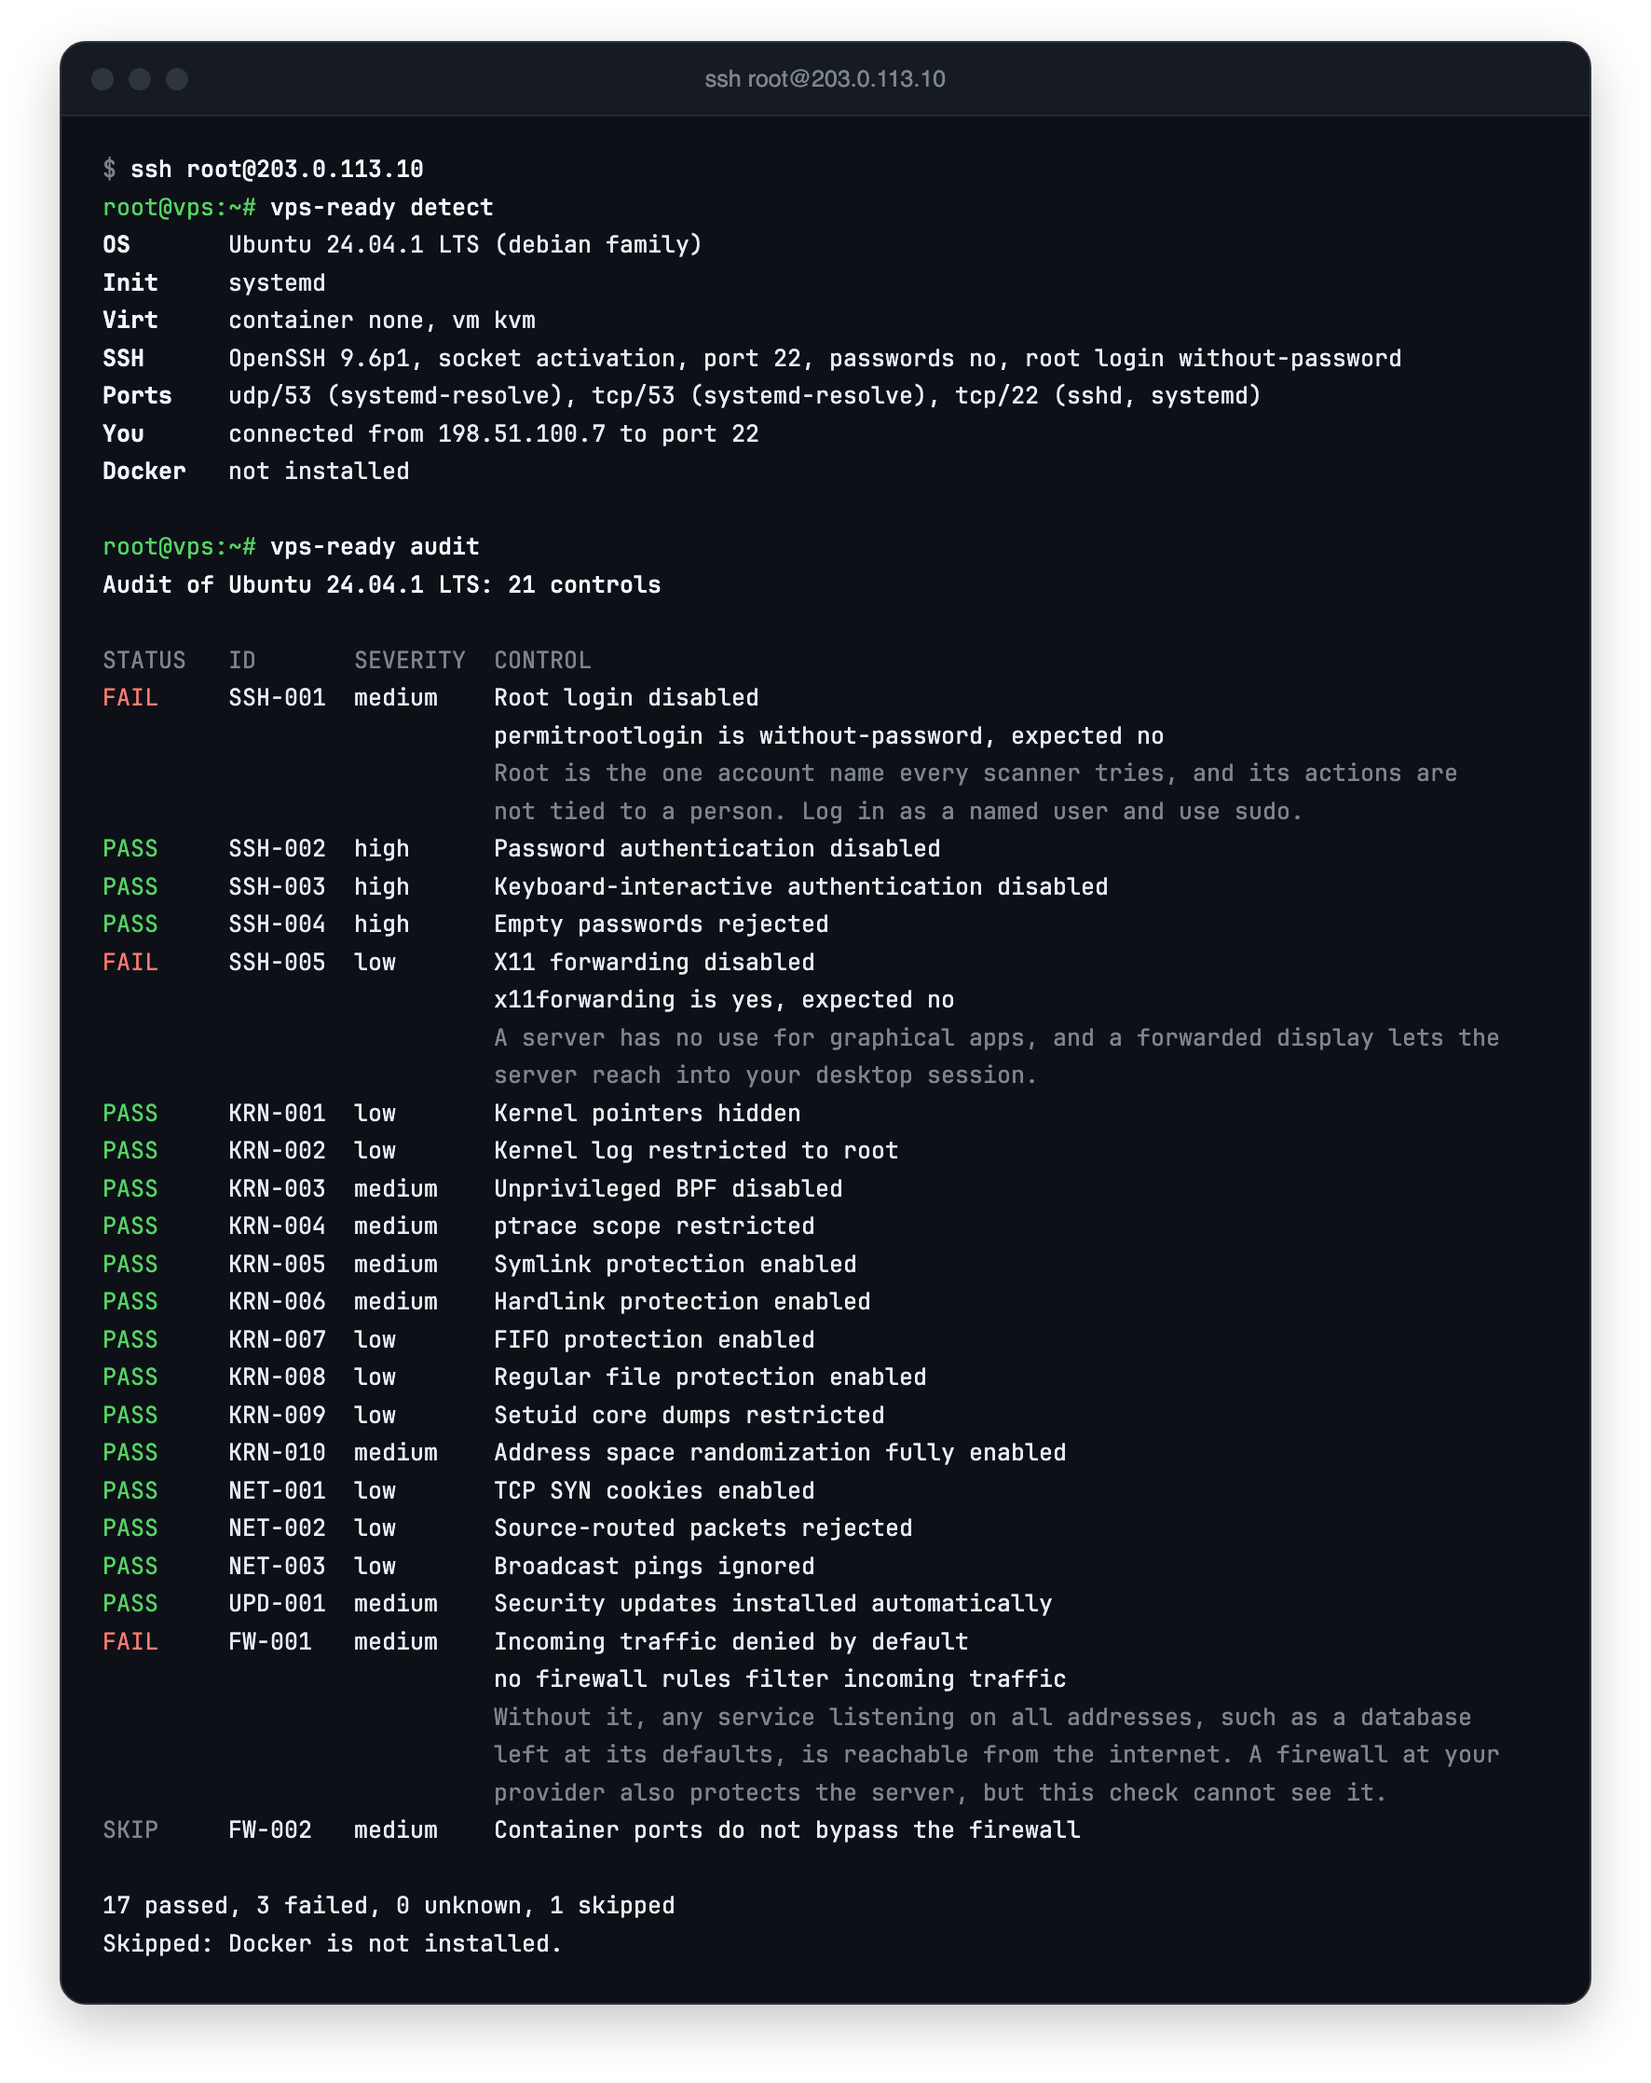
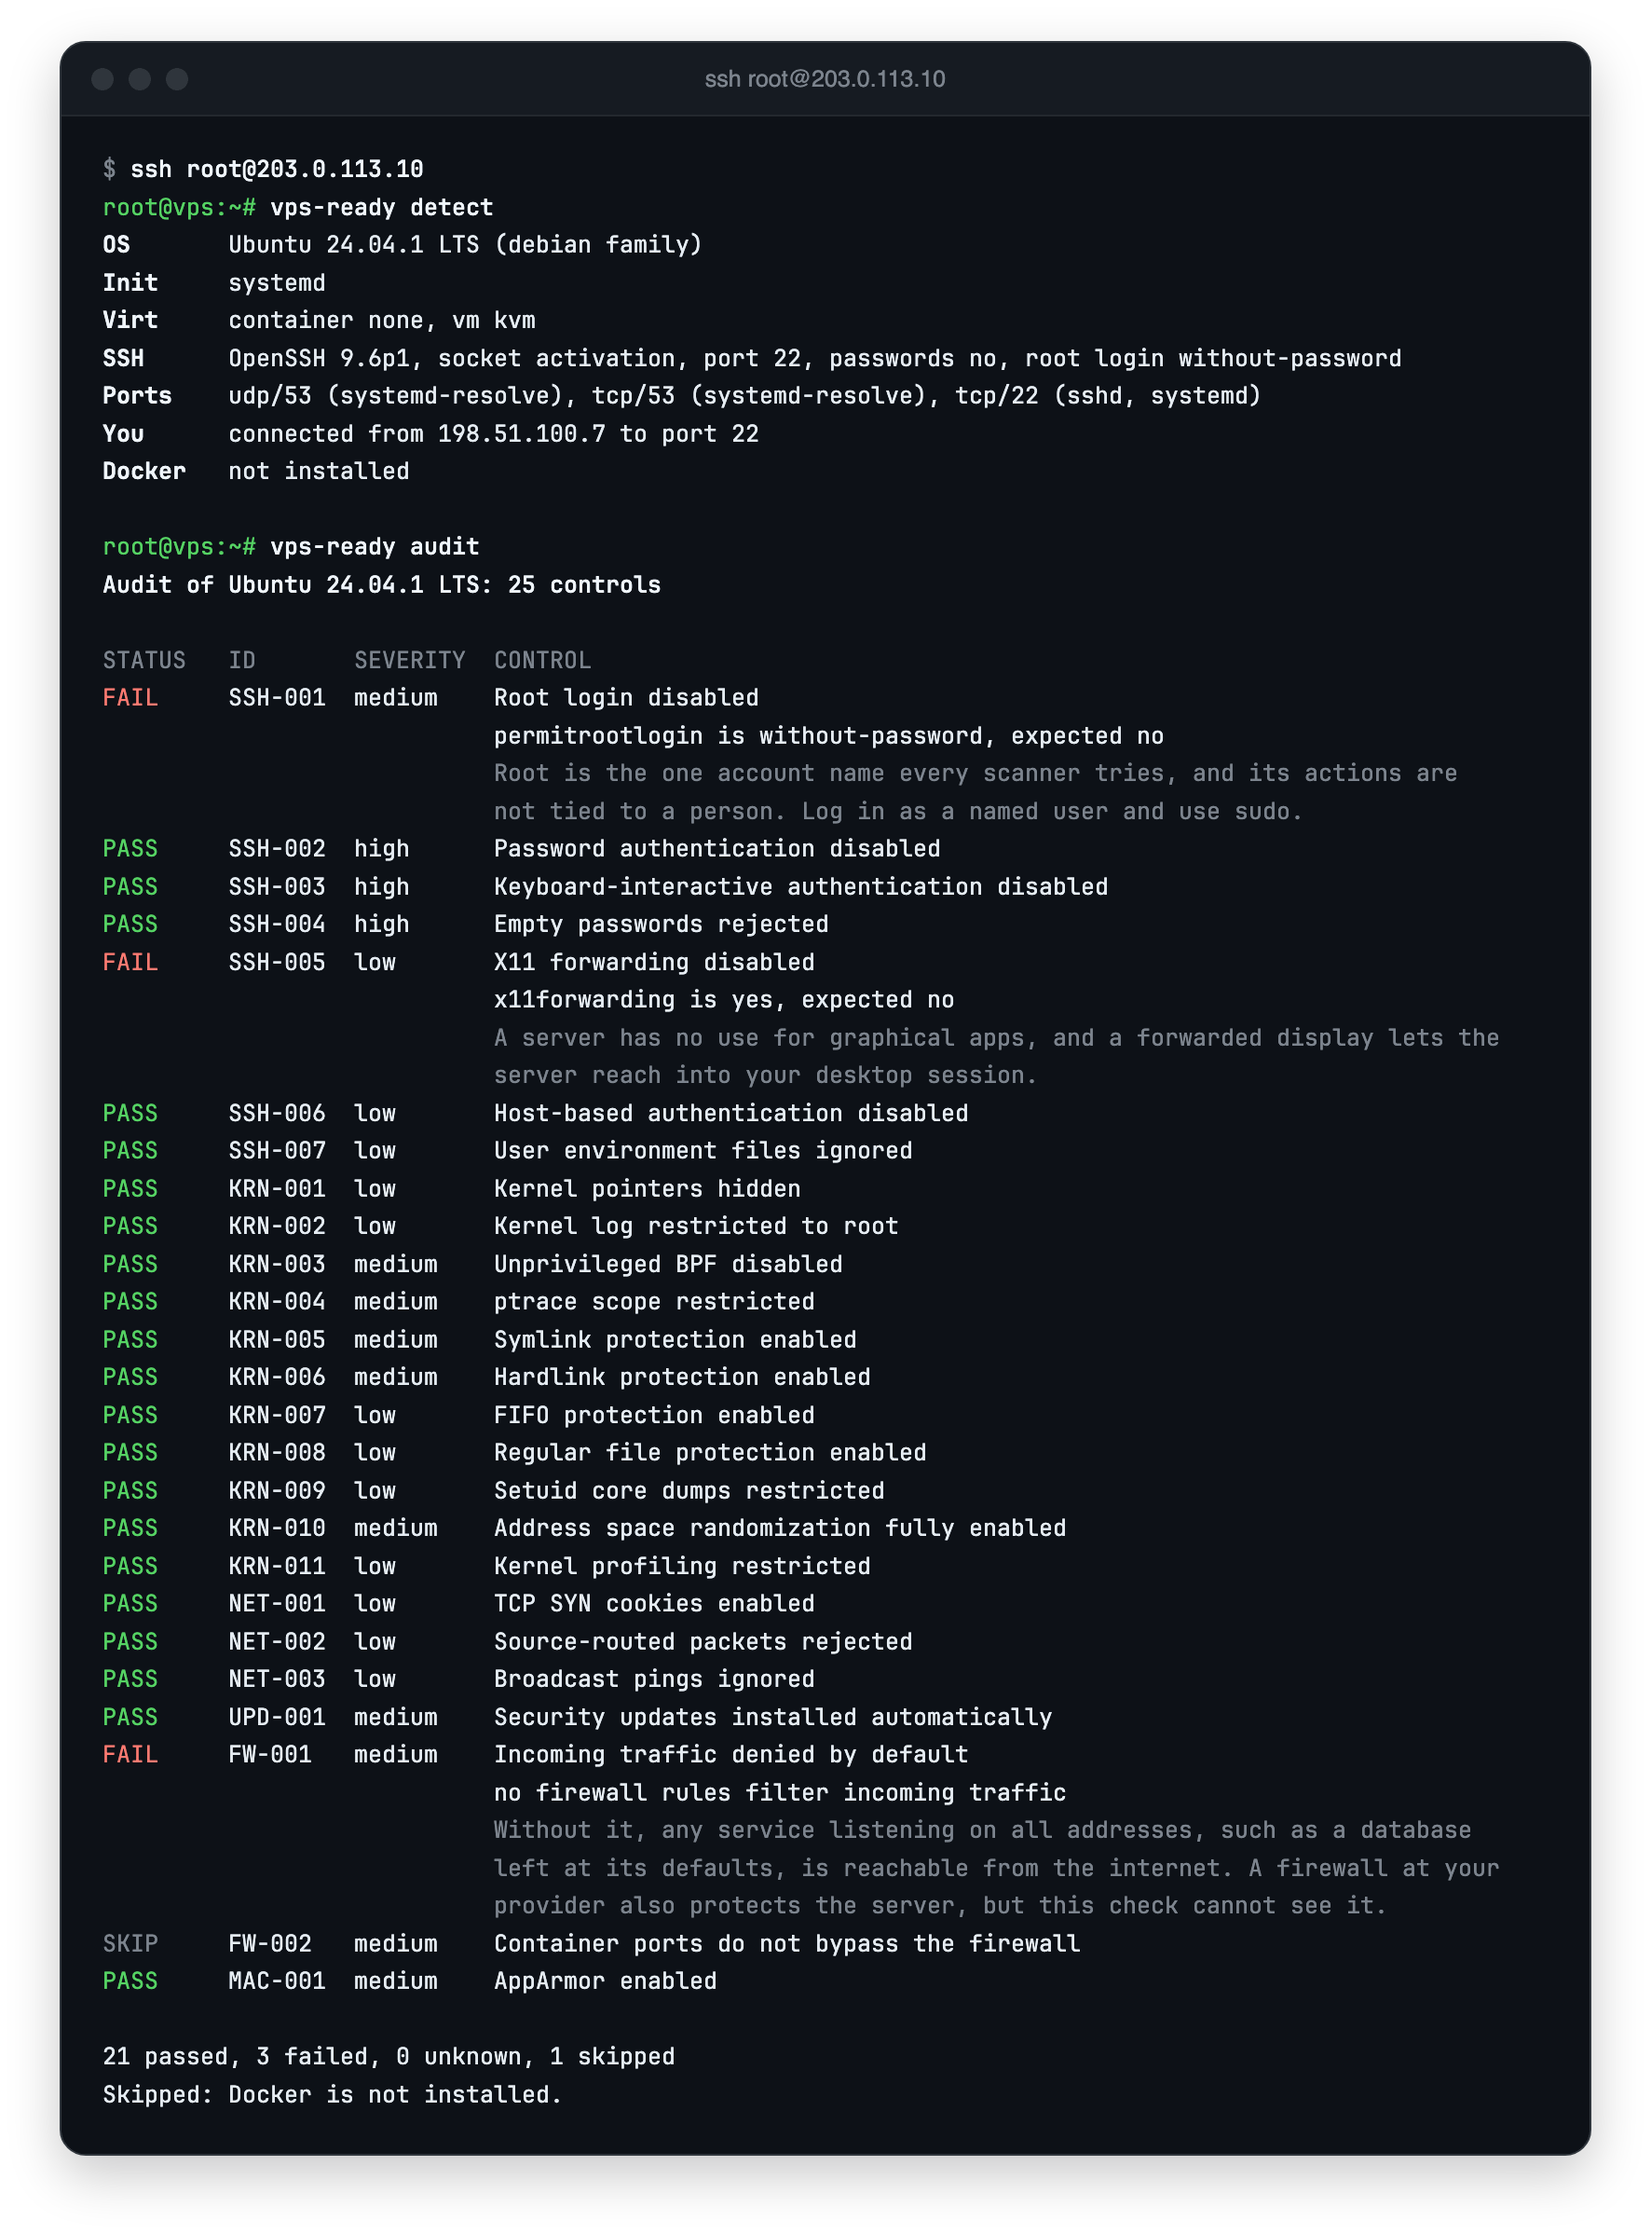
chore: release v0.1.0

diff --git a/README.md b/README.md
@@ -26,7 +26,7 @@
 </div>
 
 > [!NOTE]
-> vps-ready is in **alpha**. `detect` and `audit` (SSH, kernel, network, automatic update and firewall controls so far) work today; hardening arrives milestone by milestone, and there may be breaking changes before 1.0.
+> vps-ready is at **v0.1**. `detect` and `audit` (SSH, kernel, network, automatic update and firewall controls so far) work today; hardening arrives milestone by milestone, and there may be breaking changes before 1.0.
 
 ## Why
 
@@ -39,7 +39,7 @@ Auditors like Lynis tell you what is wrong but fix nothing. Ansible roles fix th
 On the server, as root. Installation is three steps on purpose: download, read, run.
 
 ```console
-# curl -fsSLO https://github.com/bhimrazy/vps-ready/releases/download/v0.1.0-alpha.5/install.sh
+# curl -fsSLO https://github.com/bhimrazy/vps-ready/releases/download/v0.1.0/install.sh
 # less install.sh
 # sh install.sh        # checks the SHA-256, verifies the signature if gh or cosign is installed
 # vps-ready detect
@@ -47,11 +47,11 @@ On the server, as root. Installation is three steps on purpose: download, read, 
 ```
 
 <p align="center">
-  <img src="assets/demo.png" alt="An SSH session on an Ubuntu 24.04 VPS: vps-ready detect shows the OS, init system, KVM, SSH settings, open ports and the admin's connection; vps-ready audit then checks 21 SSH, kernel, network, update and firewall controls, 17 passed, 3 failed and 1 skipped (no Docker), each failure showing the value found and why it matters" width="88%">
+  <img src="assets/demo.png" alt="An SSH session on an Ubuntu 24.04 VPS: vps-ready detect shows the OS, init system, KVM, SSH settings, open ports and the admin's connection; vps-ready audit then checks 25 SSH, kernel, network, update, firewall and AppArmor controls, 21 passed, 3 failed and 1 skipped (no Docker), each failure showing the value found and why it matters" width="88%">
   <br><sub>Example session on an Ubuntu 24.04 VPS.</sub>
 </p>
 
-The command is also installed as `vpsready`, without the hyphen. With Rust installed you can build from source instead: `cargo install vps-ready --version 0.1.0-alpha.5 --locked`. Signed packages for apt, dnf and apk are planned for v0.5. The trust model of each install channel is in [the release doc](docs/release.md).
+The command is also installed as `vpsready`, without the hyphen. With Rust installed you can build from source instead: `cargo install vps-ready --locked`. Signed packages for apt, dnf and apk are planned for v0.5. The trust model of each install channel is in [the release doc](docs/release.md).
 
 ## What it does
 

diff --git a/SECURITY.md b/SECURITY.md
@@ -32,7 +32,8 @@ require an attacker who is already root.
 
 | Version | Supported |
 | ------- | --------- |
-| `0.1.0-alpha.x` (pre-release) | best effort: fixes ship in the next pre-release |
+| `0.1.x` | best effort: fixes ship in the next 0.1.x release |
+| `0.1.0-alpha.x` (pre-release) | no: upgrade to 0.1.x |
 
 Once v0.1.0 is released, the latest minor version receives security fixes.
 

diff --git a/crates/vpsready/README.md b/crates/vpsready/README.md
@@ -9,6 +9,4 @@ cargo install vps-ready --locked    # installs `vps-ready`
 cargo install vpsready --locked     # installs `vpsready`, the same tool
 ```
 
-Until v0.1.0 only pre-releases exist, and `cargo install` skips them by default: add `--version 0.1.0-alpha.5` (or the latest alpha).
-
 See the [vps-ready README](https://github.com/bhimrazy/vps-ready#readme) for documentation.
